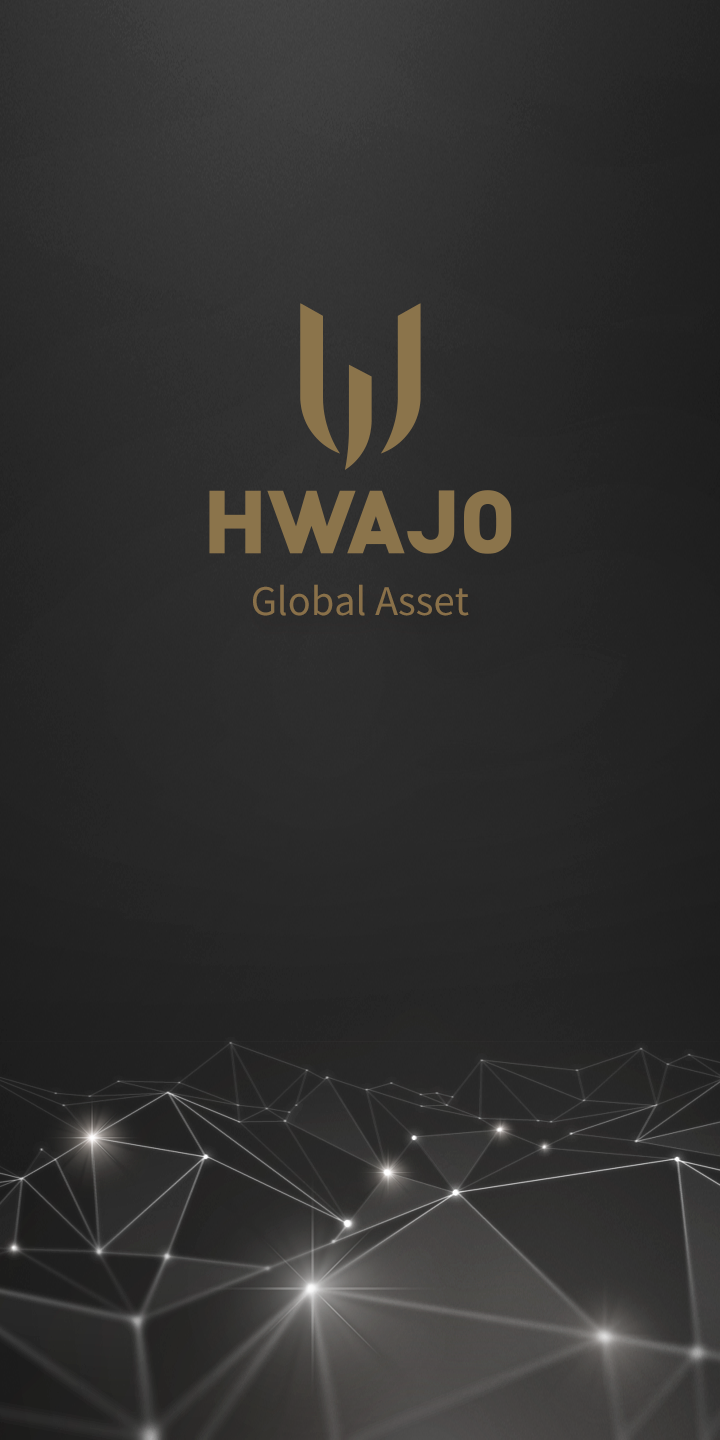
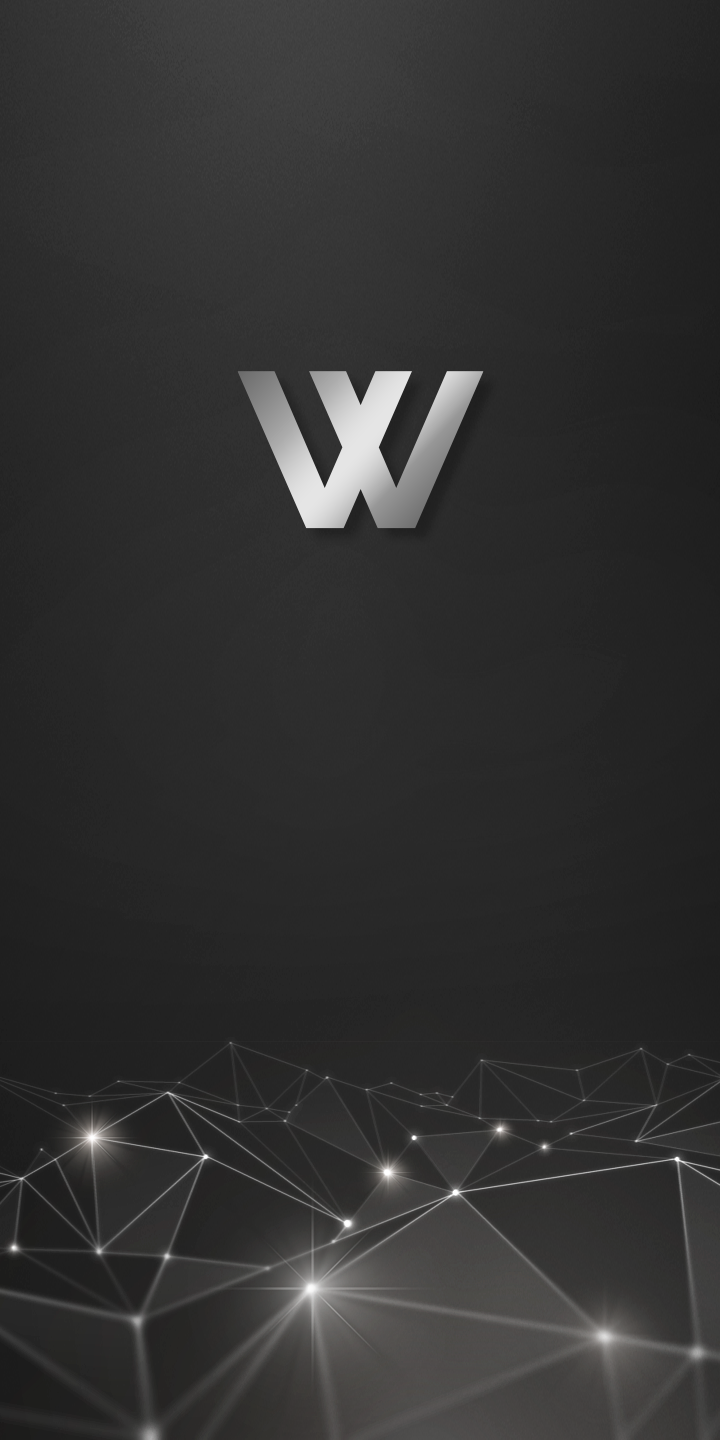
[FIX] W 이미지 변경

Changed region(s): [[0.275, 0.1875, 0.7333, 0.4375]]

diff --git a/theme/wproject/dashboard2.php b/theme/wproject/dashboard2.php
@@ -4,7 +4,7 @@
 	include_once(G5_THEME_PATH.'/_include/gnb.php');
 	include_once(G5_PATH.'/util/package.php');
 	include_once(G5_LIB_PATH.'/fcm_push/set_fcm_token.php');
-    include_once(G5_PATH.'/lib/guzzle/vendor/autoload.php');
+    include_once(G5_PATH.'/lib/BlockSDK_v3/vendor/autoload.php');
     
 
 	login_check($member['mb_id']);
@@ -42,9 +42,43 @@
         <div>
 
         <?
-            $api = 'f54c06f6ed4647c3a1659249b976333b';
-            $end_point = "https://goerli.infura.io/v3/f54c06f6ed4647c3a1659249b976333b";
+            
+            $BlockSDK_API_KEY = "BsokFsOPhUSbtMVnmgTJYSNyP9VdrkoynMEb7ag9";
+            $ethereumClient = BlockSDK::createEthereum($BlockSDK_API_KEY);
+            
+            $callback_url = G5_URL."/plugin/blocksdk/point-callback.php";
 
+
+            if(empty($member['mb_wallet'])==true){
+                $address = $ethereumClient->CreateAddress([
+                    "name" => "w_no_".$member['mb_no']
+                ]);
+           
+                echo "<br>";
+                echo "=====================";
+                print_R($address);
+                echo "=====================";
+                echo "<br>";
+
+                // $webhook_Add = WebHook::create($callback_url,"eth",$address['address']);
+
+                $address_in = $address['payload'];
+                $update_sql = "mb_wallet='{$address_in['address']}'";
+
+                $sql = "
+                insert into 
+                blocksdk_member_eth_addresses (id, address, private_key) 
+                values ('{$address_in['id']}', '{$address_in['address']}','{$address_in['privateKey']}')
+                ";
+                sql_fetch($sql);
+
+                if(empty($update_sql) == false){
+                    $sql = "UPDATE {$g5['member_table']} SET {$update_sql} WHERE mb_no={$member['mb_no']}";
+                    sql_query($sql);
+                }
+                // alert("지갑이 생성되었습니다.");
+
+            }
         ?>
 
         </div>
